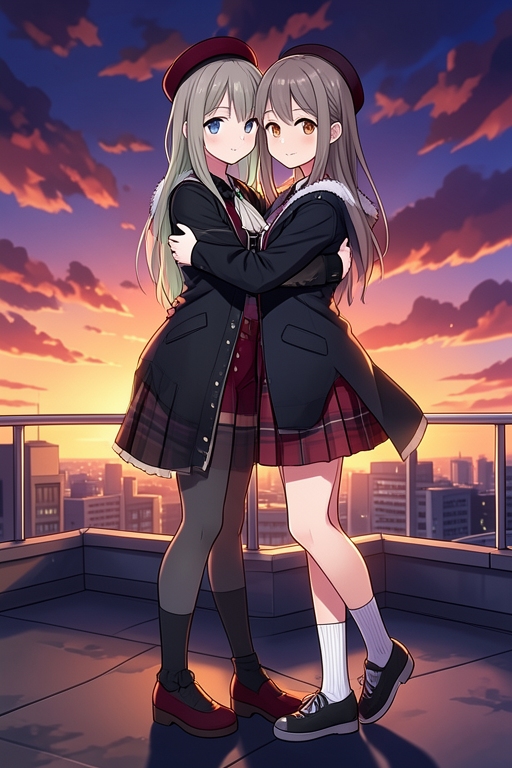
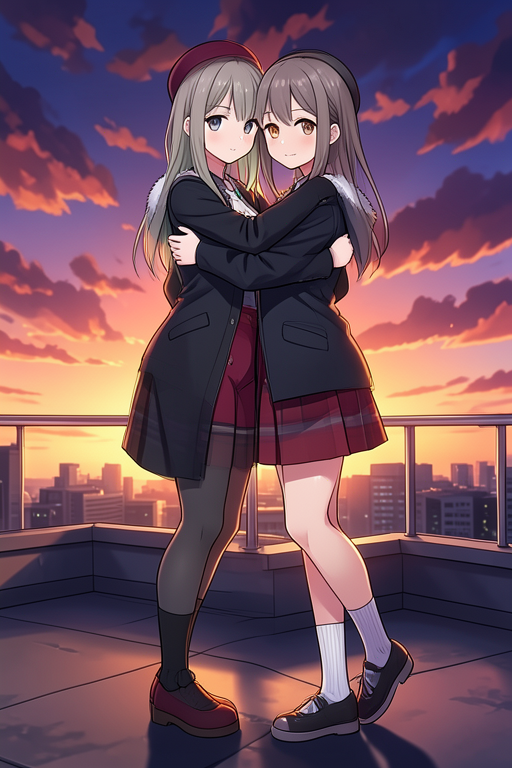
Correct character appearances in generated images by updating descriptions
Update test files to refine character appearance descriptions, ensuring Mortis has a long coat and solid red shorts with stockings, and Nina has no beret.

Replit-Commit-Author: Agent
Replit-Commit-Session-Id: 93f1d019-95a0-4049-84e3-6b3b1efc4c86
Replit-Commit-Checkpoint-Type: full_checkpoint
Replit-Commit-Event-Id: b762c5c7-74c8-42f0-9d5b-7cc3396ff3e0
Replit-Helium-Checkpoint-Created: true

diff --git a/test_inpaint_hugging.py b/test_inpaint_hugging.py
@@ -22,15 +22,18 @@ MORTIS_REF = "attached_assets/Mortis_Anime_unmasked_1774831761833.webp"
 NINA_REF   = "attached_assets/圖片_1774831943302.png"
 
 MORTIS_APPEARANCE = (
-    "1girl, Mortis, long silver white hair, red beret hat, golden amber eyes, "
-    "pale skin, black gothic military coat, crimson red shorts, gray tights, "
-    "red platform mary jane shoes, cross brooch, elegant gothic lolita aesthetic"
+    "1girl, Mortis, long pale mint-grey hair, light silver with subtle green tint, "
+    "deep burgundy red beret hat, warm amber eyes, pale skin, "
+    "fitted black gothic military long coat (no hoodie, no cape), "
+    "solid plain crimson red shorts (no plaid, no pattern, no skirt), "
+    "dark gray opaque tights, black stockings (no bare legs), "
+    "dark red platform mary jane shoes, cross brooch with green gem, elegant gothic lolita aesthetic"
 )
 NINA_APPEARANCE = (
     "1girl, Tokazaki Nina (仁菜), short brown hair, small twin tails, blue eyes, "
     "light skin, white graphic t-shirt, dark navy fur-trim hooded bomber jacket, "
     "red tartan plaid skirt, leather belt, white socks, black sneakers, "
-    "casual Japanese school girl aesthetic"
+    "no beret, no hat, casual Japanese school girl aesthetic"
 )
 
 SCENE_PROMPT = (

diff --git a/test_2pass_hug.py b/test_2pass_hug.py
@@ -30,14 +30,16 @@ NINA_PATH   = "attached_assets/圖片_1774831943302.png"
 MORTIS_APPEARANCE = (
     "1girl, Mortis, long pale mint-grey hair, light silver with subtle green tint, "
     "deep burgundy red beret hat, warm amber eyes, pale skin, "
-    "black gothic military coat, crimson red shorts, dark gray tights, "
+    "fitted black gothic military long coat (no hoodie, no cape), "
+    "solid plain crimson red shorts (no plaid, no pattern, no skirt), "
+    "dark gray opaque tights, black stockings (no bare legs), "
     "dark red platform mary jane shoes, cross brooch with green gem, elegant gothic lolita aesthetic"
 )
 NINA_APPEARANCE = (
     "1girl, Tokazaki Nina (仁菜), short brown hair, small twin tails, blue eyes, "
     "light skin, white graphic t-shirt, dark navy fur-trim hooded bomber jacket, "
     "red tartan plaid skirt, leather belt, white socks, black sneakers, "
-    "casual Japanese school girl aesthetic"
+    "no beret, no hat, casual Japanese school girl aesthetic"
 )
 
 # Pass 1: proven side-by-side — ConditioningSetMask hard masks deliver 9.6/10 and 10/10

diff --git a/test_mortis_nina.py b/test_mortis_nina.py
@@ -21,14 +21,16 @@ NINA_PATH   = "attached_assets/圖片_1774831943302.png"
 MORTIS_APPEARANCE = (
     "1girl, Mortis, long pale mint-grey hair, light silver with subtle green tint, "
     "deep burgundy red beret hat, warm amber eyes, pale skin, "
-    "black gothic military coat, crimson red shorts, dark gray tights, "
+    "fitted black gothic military long coat (no hoodie, no cape), "
+    "solid plain crimson red shorts (no plaid, no pattern, no skirt), "
+    "dark gray opaque tights, black stockings (no bare legs), "
     "dark red platform mary jane shoes, cross brooch with green gem, elegant gothic lolita aesthetic"
 )
 NINA_APPEARANCE = (
     "1girl, Tokazaki Nina (仁菜), short brown hair, small twin tails, blue eyes, "
     "light skin, white graphic t-shirt, dark navy fur-trim hooded bomber jacket, "
     "red tartan plaid skirt, leather belt, white socks, black sneakers, "
-    "casual Japanese school girl aesthetic"
+    "no beret, no hat, casual Japanese school girl aesthetic"
 )
 
 SCENE_PROMPT = (
